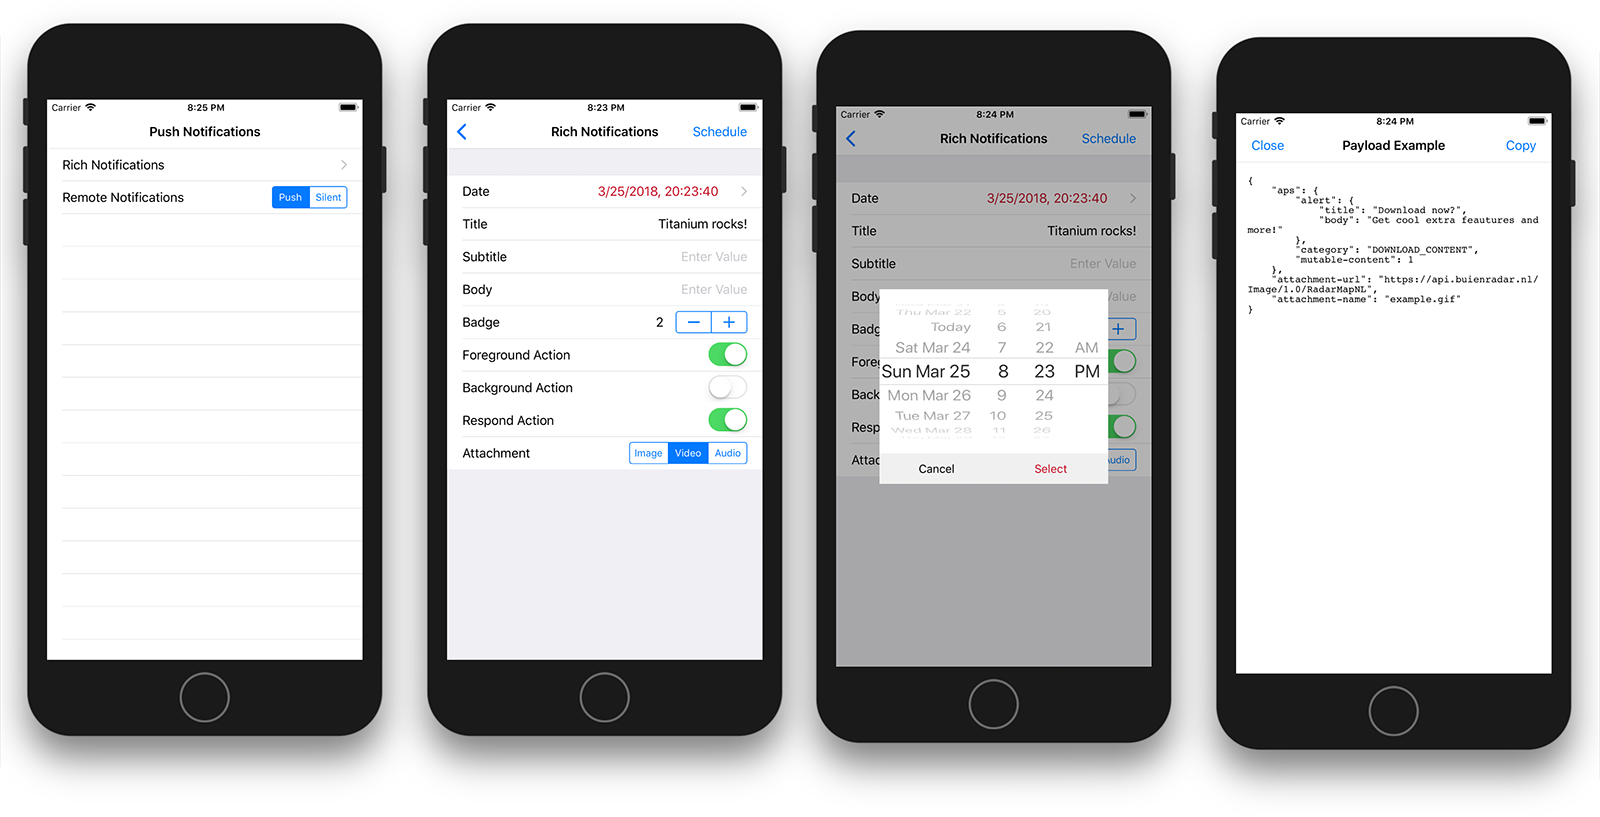
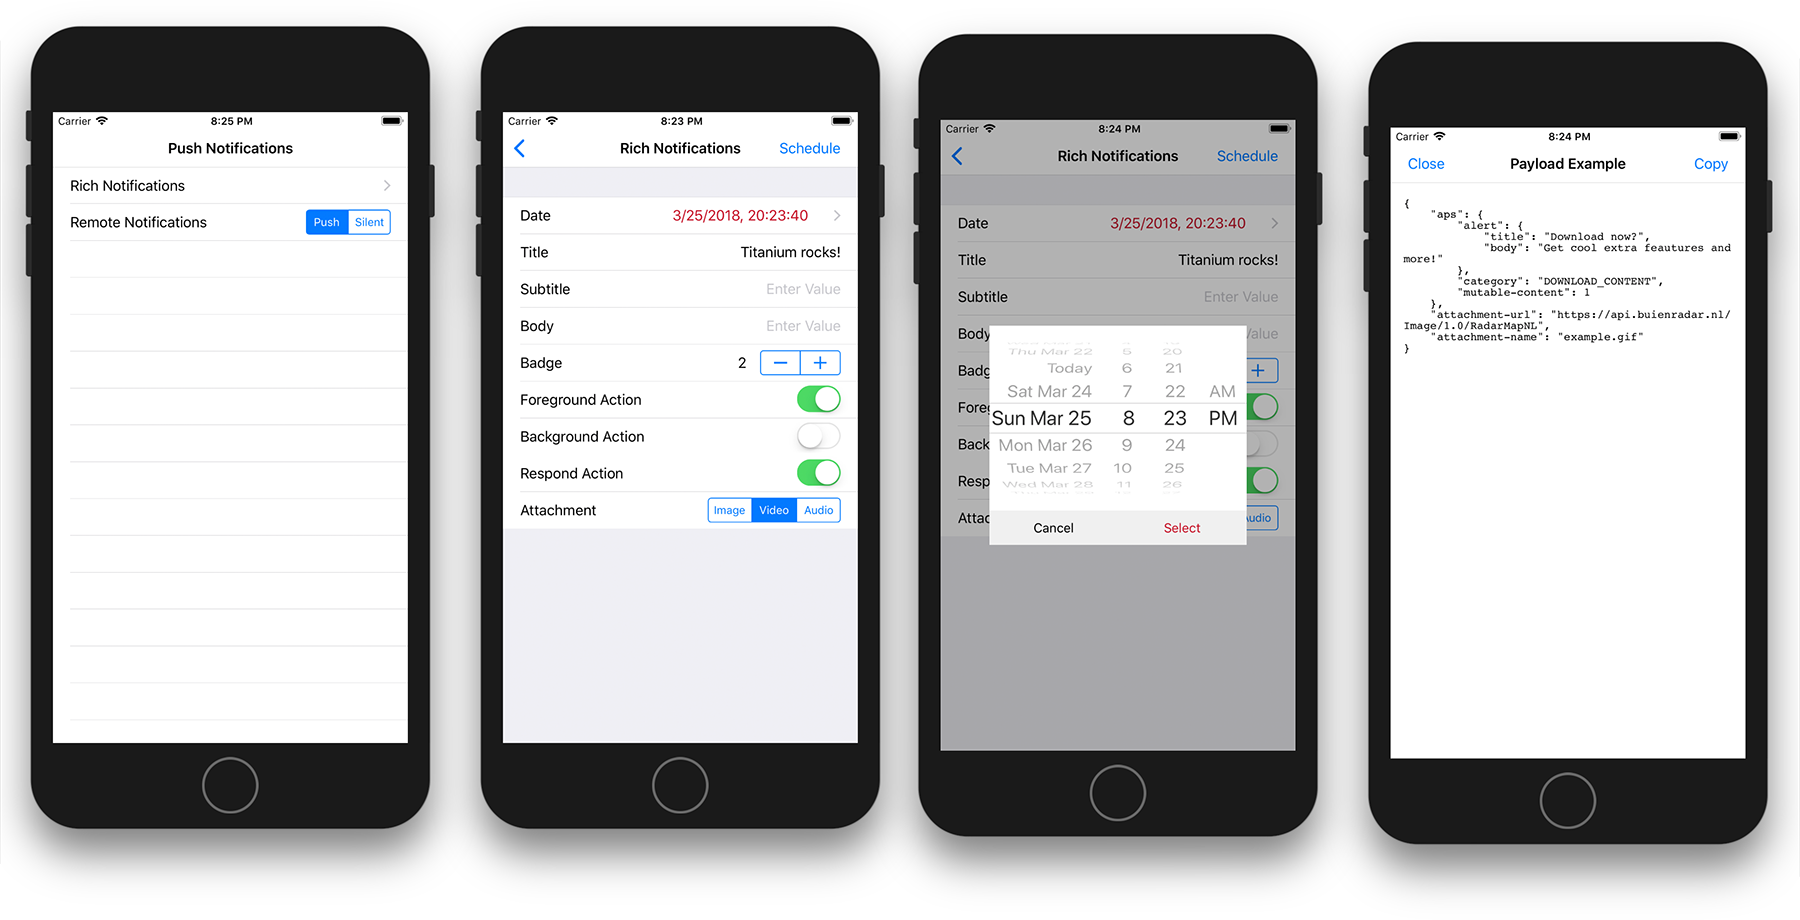
Update screenshot

diff --git a/README.md b/README.md
@@ -1,6 +1,6 @@
 # Titanium iOS Notifications
 
-<img src="./screenshot.png" alt="Titanium iOS Notifications" width="800" />
+<img src="./screenshot.png" alt="Titanium iOS Notifications" width="900" />
 
 Using the iOS Notifications API (local, remote, silent & rich) in Titanium, including Swift-based notification extensions!
 
